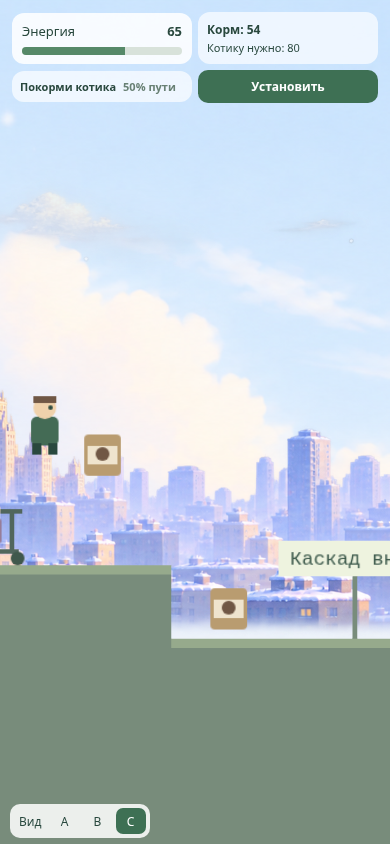
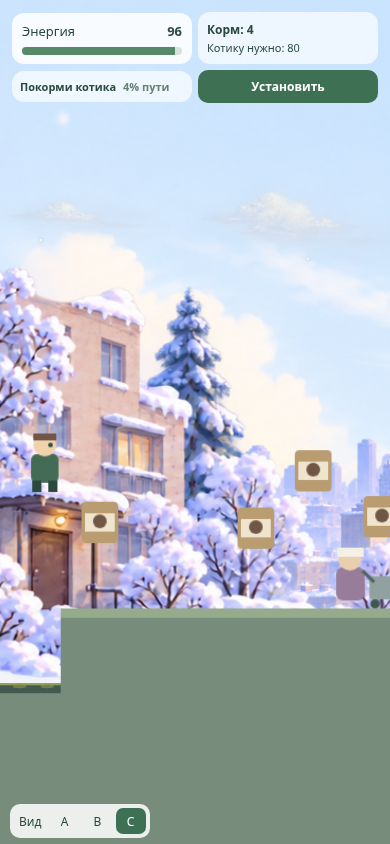
Lower winter courtyard to cover skyline beneath snow line

diff --git a/src/winter-parallax-background.ts b/src/winter-parallax-background.ts
@@ -60,7 +60,9 @@ export class WinterParallaxBackground {
       let y = 0;
       if (spec.placement === 'air') y = height * .08;
       if (spec.placement === 'far') y = groundScreenY + height * .08 - image.displayHeight;
-      if (spec.placement === 'mid') y = groundScreenY + height * .12 - image.displayHeight;
+      // The courtyard PNG has transparent padding below the snow. Sink that
+      // padding below the gameplay baseline so the skyline cannot peek under it.
+      if (spec.placement === 'mid') y = groundScreenY + height * .22 - image.displayHeight;
       image.setPosition(0, y);
     }
     this.updateVisibility();

diff --git a/docs/winter-parallax.md b/docs/winter-parallax.md
@@ -140,3 +140,14 @@ retained as historical integration evidence, not claimed as rerun here.
 
 Changed in this follow-up: background module, existing background check, this
 report, validation JSON and rendered preview.
+
+
+## Lower courtyard alignment
+
+The mid-city PNG has transparent padding beneath its snow line. Its bottom anchor
+now sits at groundScreenY + viewportHeight × .22 (previously .12), moving only
+that panorama down by 10% of viewport height: about 84 screen pixels at 390×844.
+The far skyline no longer forms a separate strip below the courtyard in inspected
+start/end gameplay frames. Asset scale, parallax, opacity/progress rules, camera
+and gameplay remain unchanged. Background coverage/resize/replay checks and
+production build pass. Preview now shows the corrected opening courtyard.
